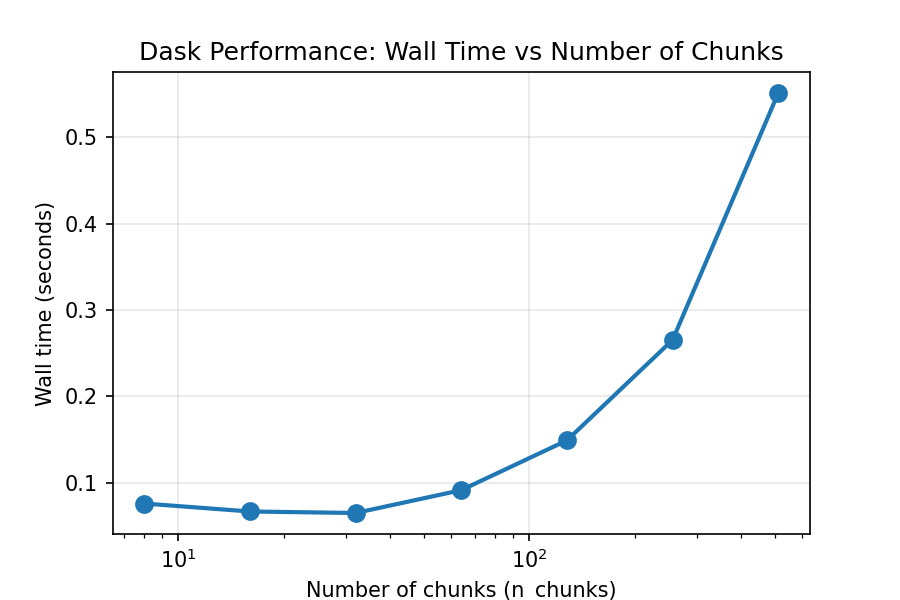
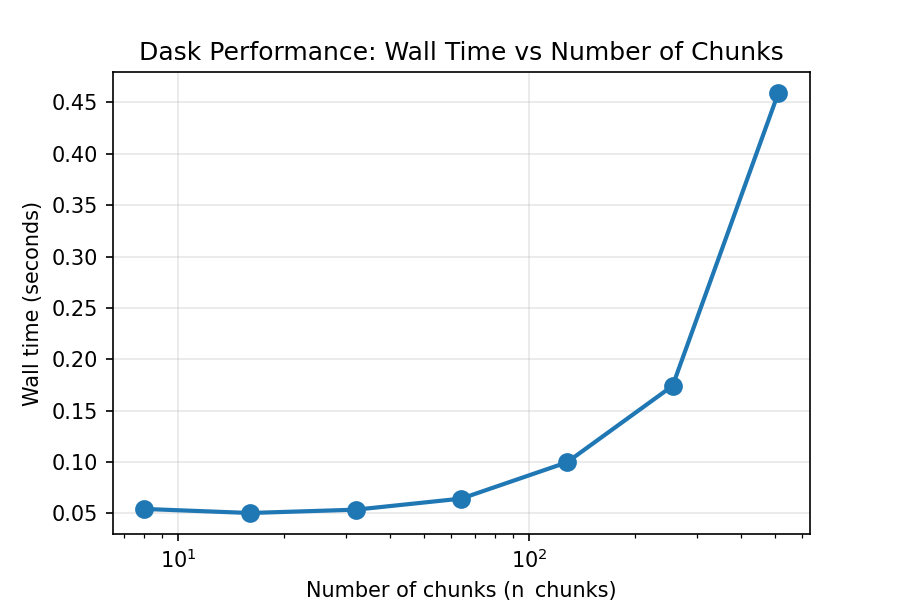
N større

diff --git a/mandelbrotmp2.py b/mandelbrotmp2.py
@@ -75,7 +75,7 @@ def mandelbrot_dask(N, x_min, x_max, y_min, y_max, max_iter=100, n_chunks=32):
     return np.vstack(parts)
 
 if __name__ == "__main__":
-    N, max_iter = 1024, 100
+    N, max_iter = 4096, 100
     n_workers = 8
     X_MIN, X_MAX, Y_MIN, Y_MAX = -2.5, 1.0, -1.25, 1.25
 
